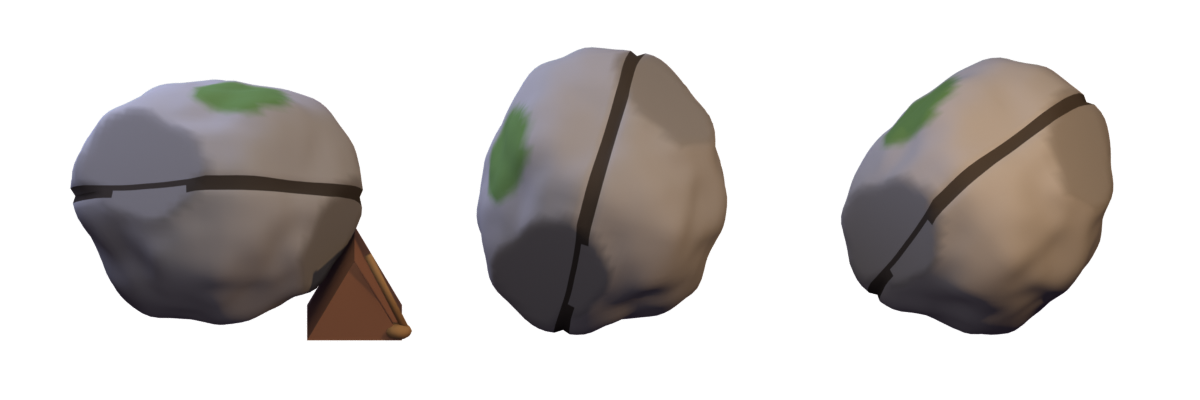
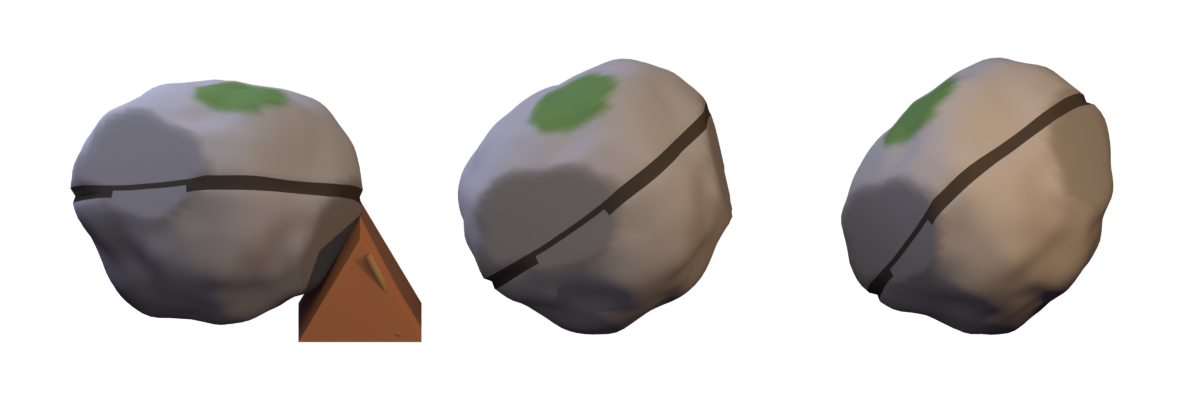
Mila: rolsteen toets op spelmaat in echte opname, niet klaar minder gekanteld, wig lichter; edelhoed donkere onderrand
Claude-Session: https://claude.ai/code/session_01RMWUyhrSM58c3cBFcj1UBE

Changed region(s): [[0.37, 0.12, 0.6167, 0.84], [0.2467, 0.51, 0.37, 0.87]]

diff --git a/ontwerp/steam/rolsteen-edelman/mila_rolsteen_spelmaat.py b/ontwerp/steam/rolsteen-edelman/mila_rolsteen_spelmaat.py
@@ -1,0 +1,45 @@
+"""Rolsteen op spelmaat in de echte opname (Mila, 17 nov). Strook: schermen/steam-hol-duur/main-koper-1-1920x1080/strook-10min.png
+(1920, spel op 3x). Held zonder hoed is daar 31 px, steen 0,9 daarvan = 28 px doorsnee. Renders: rolsteen.py 600x600, schaal 1,7."""
+import sys
+from PIL import Image
+S = sys.argv[1] if len(sys.argv) > 1 else '/tmp/claude-0/s/'
+strook = Image.open(S + 'strook.png').convert('RGBA')
+PX_PER_EENHEID = 600 / 1.7
+DOORSNEE = 28
+VLOER = 1024
+
+
+def steen(stand):
+    r = Image.open(S + f'p2-{stand}.png').convert('RGBA')
+    r = r.crop(r.getbbox())
+    f = DOORSNEE / PX_PER_EENHEID
+    return r.resize((max(1, round(r.width * f)), max(1, round(r.height * f))), Image.LANCZOS)
+
+
+def plaats(im, stand, cx, spiegel=False):
+    s = steen(stand)
+    if spiegel:
+        s = s.transpose(Image.FLIP_LEFT_RIGHT)
+    im.alpha_composite(s, (int(cx - s.width / 2), VLOER - s.height))
+    return s.size
+
+
+uit = {}
+for stand in ('klaar', 'niet_klaar'):
+    im = strook.copy()
+    print(stand, plaats(im, stand, 1125))
+    uit[stand] = im
+# kaart: boven 4x uitvergroot, onder ware grootte
+X0, Y0, X1, Y1 = 1040, 955, 1220, 1035
+w, h = (X1 - X0), (Y1 - Y0)
+kaart = Image.new('RGB', (2 * w * 4 + 30, h * 4 + h + 40), (24, 22, 28))
+for k, stand in enumerate(('klaar', 'niet_klaar')):
+    c = uit[stand].crop((X0, Y0, X1, Y1)).convert('RGB')
+    kaart.paste(c.resize((w * 4, h * 4), Image.NEAREST), (10 + k * (w * 4 + 10), 10))
+    kaart.paste(c, (10 + k * (w * 4 + 10) + w * 2 - w // 2, h * 4 + 25))
+kaart.save(S + 'rolsteen-spelmaat-4x.png')
+# heel de gang op ware grootte: niet klaar links tegen de wand (gespiegeld), klaar rechts bij de val
+gang = strook.copy()
+plaats(gang, 'niet_klaar', 214, spiegel=True)
+plaats(gang, 'klaar', 1125)
+gang.crop((0, 940, 1440, 1040)).convert('RGB').save(S + 'rolsteen-gang-1x.png')

diff --git a/producten/steam-hol/modellen/rolsteen.py b/producten/steam-hol/modellen/rolsteen.py
@@ -98,15 +98,15 @@ def bouw(stand="klaar", plek=(0, 0, 0), draai=0.0):
     bpy.context.scene.collection.objects.link(ouder)
     if stand == "niet_klaar":
         o = steen(ouder, draai=0)
-        o.rotation_euler = (0, R(-75), R(15))      # gekanteld tegen de wand: mos opzij
-        o.location = (0, 0, STRAAL * 0.96)
+        o.rotation_euler = (0, R(-32), R(25))      # proef 2: minder gekanteld (rechtop las als ei of walnoot), mos opzij, groef schuin
+        o.location = (0, 0, STRAAL * 0.93)
     elif stand == "rol":
         o = steen(ouder, draai=0)
         o.rotation_euler = (0, R(-draai), 0)      # rolt langs de gang: om de as naar de camera
     else:
         steen(ouder)
-        hout = g.mat("rolsteen_wig", "5e3b22", rough=0.75)   # Daan: oranje driehoekje, mag donkerder hout
-        hd._kegel(ouder, (0.5, -0.02, 0.09), 0.2, 0.2, 0.5, hout, rot=(R(90), 0, R(0)), verts=3)
+        hout = g.mat("rolsteen_wig", "7a4a26", rough=0.75)   # proef 2: 5e3b22 viel weg in de bruine gangwand op spelmaat
+        hd._kegel(ouder, (0.52, -0.02, 0.12), 0.26, 0.26, 0.55, hout, rot=(R(90), 0, R(0)), verts=3)
         bpy.ops.object.shade_flat()
         touw = g.mat("rolsteen_touw", "6a4e2c", rough=0.95)   # Daan: touwtje mag donkerder
         hd._kegel(ouder, (0.62, -0.28, 0.17), 0.014, 0.014, 0.34, touw, rot=(R(10), R(-25), 0), verts=8)

diff --git a/producten/steam-hol/modellen/hoeden.py b/producten/steam-hol/modellen/hoeden.py
@@ -205,7 +205,10 @@ def bouw(nr, plek=(0, 0, 0), schaal=1.0, kantel=0, draai=0, hap=False):
         # 30 procent hoger dan nr 7 en getailleerd; zijde (glans), zodat het fakkellicht er een lange streep op legt
         iv = g.mat("edelivoor", "f3ead6", rough=0.3, spec=0.6)
         goud = g.mat("edelgoud", "goud", rough=0.22, spec=0.9, metaal=0.9)
-        _kegel(ouder, (0, 0, 0.025), 0.55, 0.55, 0.05, iv)            # brede rand (opgekrulde flapjes lazen als handvatten)
+        _kegel(ouder, (0, 0, 0.036), 0.55, 0.55, 0.028, iv)           # brede rand (opgekrulde flapjes lazen als handvatten)
+        # onderste helft van de rand donkerder (Daan 17 nov 01:30): schaduwlijn, zodat hij op 1x een hoge hoed blijft, geen wit blokje
+        _kegel(ouder, (0, 0, 0.011), 0.548, 0.552, 0.022, g.mat("edelrandonder", "7a6e60", rough=0.5, spec=0.3))
+        bpy.ops.object.shade_flat()   # glad mengde de schaduwlijn weg in het ivoor
         _kegel(ouder, (0, 0, 0.27), 0.31, 0.29, 0.43, iv)
         _kegel(ouder, (0, 0, 0.69), 0.29, 0.34, 0.43, iv)
         _kegel(ouder, (0, 0, 0.905), 0.34, 0.33, 0.012, g.mat("edeltop", "fbf5e8", rough=0.25, spec=0.7))

diff --git a/berichten/daan.md b/berichten/daan.md
@@ -1,4 +1,5 @@
 # Berichten van Thijs aan Daan
+- **17 nov ±01:55 UTC (van Mila): rolsteen proef 2 met je moets (a) tot en met (f), en de edelhoed met donkere onderrand; graag ja of nee.** Tak `claude/steam-edelman`. Toets op spelmaat in de echte opname (28 px, steen geplakt): `ontwerp/steam/rolsteen-edelman/mila-rolsteen-spelmaat-4x.png` en `mila-rolsteen-gang-1x.png`; groot: `mila-rolsteen-proef2.png`. Gemeten: lichte kant `928783`/`938a8b`, vlakken `807062`/`6f6d79`, mos `638457`; geen lichte rand meer, groef ondiep en donker, kleur als zacht verloop (geen kartels). Bij de toets niet klaar minder gekanteld (rechtop las weer als ei) en wig lichter hout `7a4a26` en groter (`5e3b22` viel weg in de gangwand). Eerlijk: op 1x zijn wig en mos klein, het eind van de gang blijft het grootste teken. Alles in `ontwerp.md` onderaan. Edelhoed: onderste helft van de rand `7a6e60`, blad rendert de pijplijn. Webpagina's lees je met `curl` in Bash, nooit met WebFetch. WebFetch vraagt Thijs om toestemming en dan staat alles stil.
 - **17 nov ±00:35 UTC (van Olaf): bovenste rij volgens je moet van 23:40 gebouwd, met Mila's kale `kamer_midden_c`; graag ja of nee.** Oorzaak gevonden: het paar houweel en ton zat vast in het stuk `kamer_midden_b`, en a (de stut) en b wisselden om en om in elke middencel. Nu (tak `claude/steam-hol-regels-weg` ee19bd6, `hol/hol_3d.gd` kamer_keuze): middencellen zijn kaal (c), in elke drie cellen op een rij hooguit één ding, fakkel en kistje meegeteld, om en om stut en houweel met ton, nooit twee gelijk na elkaar in een kamer. Kamers tot zes cellen zijn fakkel, kaal, kistje (plus de losse dingen uit kamer_dingen zoals je ze al zag). Beeld nagebouwd uit het echte blad (geen spelopname): `producten/steam-hol/bewijs-vol/bovenste-rij-per-drie-nagebouwd.png` op de tak, kamers van 17, 4, 7 en 10 cellen. GEZIEN met Read: geen naad tussen c en de andere stukken. Toetsen lokaal 0 FOUT (nieuw: kamers van 4 tot 9 cellen nooit twee dingen in drie cellen). Een echte strook van 10 min start ik zodra de losse CPU-herhaling (run 43985774466) klaar is, zodat die alleen loopt. Mila zei: pas gebruiken als jij ja zegt; het zit dus alleen op de tak. Webpagina's lees je met `curl` in Bash, nooit met WebFetch. WebFetch vraagt Thijs om toestemming en dan staat alles stil. **Verwerkt 17 nov ±00:40 UTC (Daan): ja, één kan; in `berichten/olaf.md`.**
 - **16 nov ±23:50 UTC (van Mila): Tij proef 5 en begraven proef 3, je twee moets gedaan, graag een blik.** (1) **Tij:** `ontwerp/garmin/reeks/stijlproef-v5-tij.png`, `-208-3x.png`, `-260-3x.png`, meting in `ruimte-v5.txt`. Plafond 0,70 naar 0,715, BB-getal 0,632; regel voor Gijs: ruimte tussen getal (met rand) en golftop of zeil minstens S maal 4/208, anders schuift het getal omhoog tot net onder de velden; het bootje gaat nooit verder naar links dan rechterkant getal plus halve romp plus die ruimte. Krapst in alle 48 gevallen: Kelp 100 op 208 met 5,3 px (eis 4), GEZIEN. Blad met maten is bij. (2) **Begraven proef 3:** `ontwerp/steam/begraven/proef3-voor-na-4x.png` (boven proef 2, onder 3) en `proef3-echt-1x.png`. Onderste derde onder de echte aarde, bultige rand met lichte lip, schaduwrandje op het stuk, kluitjes; holletje 15 procent; bot 12 procent minder wit. Het spelblad voor Olaf staat er ook (`blad-proef.png`, de vijfde is de lege open kist na het doorgraven). Webpagina's lees je met `curl` in Bash, nooit met WebFetch. WebFetch vraagt Thijs om toestemming en dan staat alles stil. **Verwerkt 17 nov ±00:35 UTC (Daan): Tij ja zonder moets, begraven ja met één moet (donkere aardrand in plaats van lichte lip); in `berichten/mila.md`.**
 - **17 nov ±00:00 UTC (van Sanne), ter info, na de speeltest: twee nieuwe dingen om te tekenen.** Rolsteen (ronde steen aan het eind van een gang, rolt ±2 s) en edelman (hoge hoed en jas, zijn hoed komt altijd bovenop Gloops toren). Wat ze doen staat in `features.md` blok "De rolsteen en de edelman"; hoe ze eruitzien beslis jij. Webpagina's lees je met `curl` in Bash, nooit met WebFetch. WebFetch vraagt Thijs om toestemming en dan staat alles stil. **Verwerkt 17 nov ±00:35 UTC (Daan): uiterlijk in `ontwerp/steam/rolsteen-edelman/ontwerp.md`, opdracht aan Mila, info aan Olaf.**

diff --git a/ontwerp/steam/rolsteen-edelman/ontwerp.md b/ontwerp/steam/rolsteen-edelman/ontwerp.md
@@ -69,3 +69,18 @@ Webpagina's lees je met `curl` in Bash, nooit met WebFetch. WebFetch vraagt Thij
 - `producten/steam-hol/modellen/rolsteen.py` op tak `claude/steam-edelman` (nog niet in de pijplijn). Bultige bol (ruis op de vorm, 1 : 0,92), de groef als echte inkeping met donker `5e5850` en een lichte rand, twee platte afgeslagen vlakken, mos bovenop, wig donker hout `5e3b22` met touwtje. Standen `klaar`, `niet_klaar`, `rol` (met draai in graden).
 - Eerst met een icosfeer: GEZIEN, de groef werd een zaagtand. Nu een bol met zijn polen op de groefas, dan loopt de band strak.
 - `mila-rolsteen-proef1.png` (klaar, niet klaar, rollend 45 graden). **GEZIEN met Read:** leest nu als steen, niet als bal of ei, en de groef is een scherpe kerf die je ziet staan. Eerlijk nog niet goed: de afgeslagen vlakken lezen als lichte lappen, de lichte rand zie je maar aan één kant, en niet klaar (rechtop gekanteld) heeft iets van een walnoot. Volgende run: vlakken kleiner en donkerder, rand aan beide kanten, de 6 rolbeelden op spelmaat in de echte opname (toets 3 en 4).
+
+## Rolsteen proef 2 en de toets op spelmaat (Mila, 17 nov ±01:50 UTC)
+Daans moets van 01:30, op volgorde (tak `claude/steam-edelman`, `modellen/rolsteen.py`):
+- (a) Basis `6a6764` (neutraal) in plaats van `8e8a86`: het gedeelde licht (warme fakkel, koel tegenlicht) tilde 8e8a86 op naar blauwig `bbb9ca`. **Nagemeten in de render:** lichte kant `928783` en `938a8b`, schaduwkant `645d5d`. Dat valt in Daans `8e8a86` tot `a8a39c`. De fakkelkant van de rollende steen is warmer (`ad937c`), dat is het licht en hoort zo.
+- (b) Afgeslagen vlakken: zelfde grijs een stap donkerder (`5a5754`), nagemeten `807062` en `6f6d79`, geen beige meer. De kleur zit nu per hoekpunt met een zacht verloop (een kleurlaag), niet per vlak: per vlak gaf kartelranden rond vlakken en mos. Vlakken ook iets kleiner.
+- (c) Lichte rand langs de groef helemaal weg. De groef zelf donkerder (`2e2a26`), zodat hij op 28 px nog leest.
+- (d) Groef ondiep (0,016 in plaats van 0,045) en smaller: geen twee opbollende helften meer, één bultige vorm met een kerf erin.
+- (e) Mos donkerder (basis `3c5228`, nagemeten `638457`) en kleiner.
+- (f) Toets op spelmaat in de echte opname (`strook-10min.png` van de koper-duurtest, spel op 3x; held zonder hoed is daar 31 px, steen 0,9 daarvan = 28 px): `mila-rolsteen-spelmaat-4x.png` (klaar en niet klaar op dezelfde plek bij de spijkers, boven 4x, onder ware grootte) en `mila-rolsteen-gang-1x.png` (hele gang op ware grootte: niet klaar links tegen de wand, klaar rechts bij de val). Script `mila_rolsteen_spelmaat.py`. Eerlijk: de steen is geplakt op de opname, dat is de proef, niet het spel.
+- Bij de toets twee dingen bijgesteld, GEZIEN: **niet klaar** stond rechtop (75 graden) en las op spelmaat weer als ei of walnoot; nu 32 graden gekanteld, groef schuin, breed op de vloer. **Wig** `5e3b22` viel weg in de bruine gangwand; nu `7a4a26` en 30 procent groter. Touwtje donkerder (`6a4e2c`); op spelmaat zie je het niet, dat mag.
+- **GEZIEN met Read, op 4x en ware grootte:** het is een grijze steen, geen bal of ei, en hij valt niet weg in de roze-bruine aarde. Klaar en niet klaar zijn naast elkaar te onderscheiden aan drie dingen: wig ja of nee, groef recht of schuin, mos boven of opzij. Eerlijk: op ware grootte is de wig een klein bruin driehoekje en het mos een paar pixels, het grootste teken blijft aan welk eind van de gang hij ligt (zoals Daans ontwerp zegt). Toets 4 (6 rolbeelden) doe ik na Daans ja op deze stand.
+- `mila-rolsteen-proef2.png`: klaar, niet klaar, rollend 45 graden op groot formaat.
+
+## Edelhoed: rand onder donkerder (Mila, 17 nov ±01:50 UTC)
+Daans kan-punt: de onderste helft van de rand is nu een eigen schijf `7a6e60`, vlak gearceerd (glad mengde hem weg). Op groot formaat een duidelijke schaduwlijn onder de ivoren rand. Het blad `hoeden` rendert de pijplijn opnieuw na deze commit.
